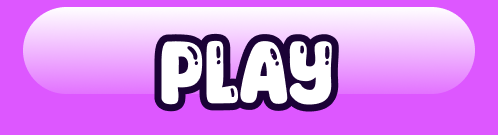
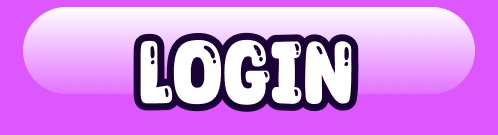
join + create + more...

Changed region(s): [[0.241, 0.237, 0.7229, 0.8296]]

diff --git a/style/home.css b/style/home.css
@@ -1,6 +1,7 @@
 
 /* -------------------------------------------------- */
 body{
+    overflow: hidden;
     padding: 0px;
     height: 100vh;
     display: flex;
@@ -30,8 +31,8 @@ body{
 }
 .botona {
     cursor: pointer;
-    width: 300px;
-    height: 80px;
+    width: 700px;
+    height: 180px;
     border-radius: 100px;
     text-align: center;
     display: flex;
@@ -39,11 +40,13 @@ body{
     justify-content: center;    
 }
 .botona a {
+    margin: 0px 20px;
+}
+.botona #login {
     width: 300px;
     height: 80px;
     background-image: url(../media/botona.png);
     background-size: cover;
-    position: absolute;
     animation-name: botona-animate;
     animation-duration: 3s;
     animation-iteration-count: infinite;
@@ -53,17 +56,31 @@ body{
     -webkit-box-shadow: 0px 0px 36px -7px rgba(255,52,223,0.8);
     -moz-box-shadow: 0px 0px 36px -7px rgba(255,52,223,0.8);
 }
-@keyframes botona-animate {
-    0% {
-        width: 300px;
-        height: 80px;
-    }
-    50% {
-        width: 280px;
-        height: 70px;
-    }
-    100% {
-        width: 300px;
-        height: 80px;
-    }
+.botona #login:hover {
+    
+    box-shadow: 0px 0px 36px -7px rgba(226, 226, 226, 0.8);
+    -webkit-box-shadow: 0px 0px 36px -7px rgba(255, 255, 255, 0.8);
+    -moz-box-shadow: 0px 0px 36px -7px rgba(255, 255, 255, 0.8);
 }
+
+.botona #guest {
+    width: 300px;
+    height: 80px;
+    background-image: url(../media/guest.png);
+    background-size: cover;
+    animation-name: botona-animate;
+    animation-duration: 3s;
+    animation-iteration-count: infinite;
+    transition: .33s;
+    border-radius: 100px;
+    box-shadow: 0px 0px 36px -7px rgba(156, 156, 156, 0.8);
+    -webkit-box-shadow: 0px 0px 36px -7px rgba(175, 175, 175, 0.8);
+    -moz-box-shadow: 0px 0px 36px -7px rgba(231, 231, 231, 0.8);
+}
+.botona #guest:hover {
+    
+    box-shadow: 0px 0px 36px -7px rgba(226, 226, 226, 0.8);
+    -webkit-box-shadow: 0px 0px 36px -7px rgba(255, 255, 255, 0.8);
+    -moz-box-shadow: 0px 0px 36px -7px rgba(255, 255, 255, 0.8);
+}
+

diff --git a/style/signup.css b/style/signup.css
@@ -1,4 +1,5 @@
 body{
+    overflow: hidden;
     padding: 0px;
     height: 100vh;
     display: flex;
@@ -23,9 +24,15 @@ body{
     width: 1216px;
     height: 684px;
     display: flex;
-    flex-direction: column;
     align-items: center;
     justify-content: center;
+}
+.container h3 {
+    color: white;
+    font-size: 25px;
+    padding: 10px 20px;
+    margin: 0px;
+    font-weight: 400;
 }
 .botona {
     cursor: pointer;
@@ -40,7 +47,7 @@ body{
 .botona a {
     width: 300px;
     height: 80px;
-    background-image: url(../media/login.png);
+    background-image: url(../media/create.png);
     background-size: cover;
     position: absolute;
     animation-name: botona-animate;
@@ -57,31 +64,26 @@ body{
     -webkit-box-shadow: 0px 0px 36px -7px rgba(255, 207, 248, 0.8);
     -moz-box-shadow: 0px 0px 36px -7px rgba(255, 207, 248, 0.8);
 }
-form {
-    margin: 10px 0px;
-    display: flex;
-    flex-direction: column;
-    justify-content: space-evenly;
-    align-items: center;
-}
 form>input {
-    margin: 20px 0px;
-    width: 500px;
-    height: 65px;
+    margin: 0px 0px;
+    width: 400px;
+    height: 50px;
     border-radius: 100px;
     border: 5px solid #A829BD;
     font-size: 30px;
     padding: 0px 50px;
 }
-.container>h1 {
+
+.right {
     color: white;
-    font-size: 42px;
-    letter-spacing: 1mm;
+    font-weight: 400;
+    display: flex;
+    flex-direction: column;
+    align-items: center;
+    justify-content: center;
 }
-.container>p {
-    font-size: 25px;
-} 
-.container>p>span>a {
-    text-decoration: none;
-    color: #FFBB4A;
+.right h1{
+    font-weight: 400;
+    text-align: center;
+    width: 70%;
 }

diff --git a/pages/signup.html b/pages/signup.html
@@ -1,0 +1,35 @@
+<!DOCTYPE html>
+<html lang="en">
+<head>
+    <title>Out Of Sub</title>
+    <link rel="stylesheet" href="../style/signup.css">
+    <link rel="stylesheet" href="../style/font-kit.css">
+</head>
+<body>
+    <div class="container">
+        <form action="">
+            <h3>username</h3>
+            <input type="text">
+            
+            <h3>email</h3>
+            <input type="text">
+
+            <h3>password</h3>
+            <input type="text">
+
+            <h3>conferm password</h3>
+            <input type="text">
+
+        </form>
+
+        <div class="right">
+            <h1>create your account and play with friends</h1>
+
+            <div class="botona">
+                <a href="./pages/lobby.html">
+                </a>
+            </div>
+        </div>
+    </div>
+</body>
+</html>

diff --git a/pages/join.html b/pages/join.html
@@ -2,18 +2,17 @@
 <html lang="en">
 <head>
     <title>Out Of Sub</title>
-    <link rel="stylesheet" href="../style/login.css">
+    <link rel="stylesheet" href="../style/join.css">
     <link rel="stylesheet" href="../style/font-kit.css">
 </head>
 <body>
     <div class="container">
-        <h1>Connect your account</h1>
+        <h1>join to your friend’s room </h1>
 
         <form action="">
-            <input type="text">
-            <input type="password">
+            <input type="text" placeholder="#">
+            <input type="password" placeholder="password">
         </form>
-        <p>You don’t have an account? <span><a href="./signup.html">create one</a></span></p>
         <div class="botona">
             <a href="./pages/lobby.html">
             </a>

diff --git a/style/join.css b/style/join.css
@@ -10,6 +10,7 @@ body{
 * {
     font-family: glossyRegular;
     outline: none;
+ 
 }
 .container {
     border: 5px solid #f8dcff;
@@ -40,7 +41,7 @@ body{
 .botona a {
     width: 300px;
     height: 80px;
-    background-image: url(../media/login.png);
+    background-image: url(../media/join.png);
     background-size: cover;
     position: absolute;
     animation-name: botona-animate;
@@ -63,6 +64,9 @@ form {
     flex-direction: column;
     justify-content: space-evenly;
     align-items: center;
+}
+form>input::placeholder {
+    text-align: center;
 }
 form>input {
     margin: 20px 0px;

diff --git a/index.html b/index.html
@@ -9,8 +9,8 @@
     <div class="container">
         <img src="./media/logo.png">
         <div class="botona">
-            <a href="./pages/lobby.html">
-            </a>
+            <a href="./pages/login.html" id="login"></a>
+            <a href="./pages/lobby.html" id="guest"></a>
         </div>
     </div>
 </body>
